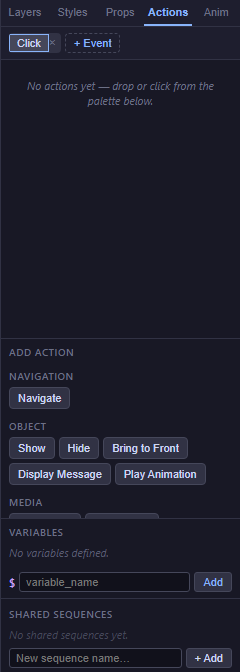
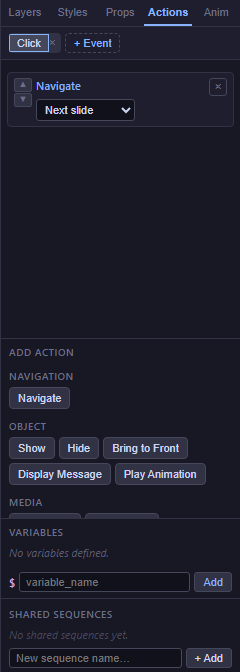
test(docs-screenshots): pass 2 — deterministic crops for §09+§10
Pass 2/5 of the User Manual v2 screenshot spec refactor (Category B:
capture element instead of fullpage; seed state then crop).

Scope: 6 placeholders moved from fullpage safety net to clean crops.

- 09-actions-tab           — already element, no change (sanity check)
- 10-event-selector        — menu open, close via toggle to avoid
                             occluding subsequent captures
- 10-action-palette        — full palette with all 15 actions across 7
                             categories visible
- 10-action-navigate       — close-up of a single Navigate row
- 10-action-setvariable    — close-up of a single Set Variable row
- 10-action-ifelse         — If/Else row with nested Show (Then) + Hide
                             (Else) branches and their palettes

Component changes (testids + attrs, no behaviour change):
- ActionPalette.tsx          data-testid="action-palette" on container
- ActionsPanel.tsx           data-testid="action-palette-area" on the
                             flex-child wrapper (lets the screenshot
                             stylesheet override flex-shrink on the exact
                             ancestor without disturbing the panel's
                             runtime layout)
- ActionSequenceEditor.tsx   data-action-type={action.type} on each row
                             so rows can be addressed individually
                             ("navigate", "set-variable", "condition"…)

Spec changes (docs-screenshots.spec.ts):
[…]

Changed region(s): [[0.0292, 0.0938, 0.9333, 0.1875], [0.9625, 0.125, 0.9917, 0.1875], [0.9333, 0.0938, 0.9625, 0.125]]

diff --git a/e2e/tests/docs-screenshots.spec.ts b/e2e/tests/docs-screenshots.spec.ts
@@ -400,75 +400,212 @@ test('Manual v2 screenshot campaign', async ({ editorPage, page }) => {
     await captureFullPage(page, '09-widget-name-field.png')
   })
 
-  // Open the Actions tab; add trigger click + Navigate → Next slide.
+  // Open the Actions tab and seed a Click event so the palette renders.
   await editorPage.actionsTab.click()
-  // Best-effort wiring: EventSelector + ActionItemEditor controls vary by
-  // build. If any click misses, the downstream captureFullPage() still
-  // produces a usable snapshot.
-  try {
-    await page.getByRole('button', { name: /\+ *Event/i }).click({ timeout: 5000 })
-    await page.getByRole('menuitem', { name: /^Click$/i }).click({ timeout: 5000 })
-    await page.getByRole('button', { name: /Add action/i }).click({ timeout: 5000 })
-    await page.getByRole('button', { name: /Navigate$/i }).click({ timeout: 5000 }).catch(() => undefined)
-  } catch {
-    /* best effort — spec continues */
+
+  // Open "+ Event" → Click. Guard around the menu click because availableEvents
+  // is empty once the event is already added (second run on the same widget).
+  async function ensureClickEvent(): Promise<void> {
+    const eventList = page.getByRole('tab', { name: /^Click$/i })
+    if (await eventList.count() > 0) return
+    try {
+      await page.getByRole('button', { name: /\+ *Event/i }).click({ timeout: 5000 })
+      await page.getByRole('menuitem', { name: /^Click$/i }).click({ timeout: 5000 })
+    } catch {
+      /* best effort — palette visibility check is what matters */
+    }
+  }
+  await ensureClickEvent()
+
+  // 09-actions-tab.png — right sidebar with the Actions tab active. A first
+  // action row helps the shot look populated; the palette ships visible.
+  // Insert Navigate once via click on the palette's Navigate button.
+  async function insertActionFromPalette(label: RegExp): Promise<void> {
+    const palette = page.locator('[data-testid="action-palette"]')
+    await palette.waitFor({ state: 'visible', timeout: 5000 })
+    await palette.getByRole('button', { name: label }).first().click({ timeout: 4000 })
   }
 
+  try {
+    await insertActionFromPalette(/^Navigate$/)
+  } catch {
+    /* best effort — downstream captureFullPage still emits something */
+  }
   await safeCaptureRightPanel('09-actions-tab.png')
 
-  // 09-widget-dropdown-names — a Show-action row with the <select> open.
-  // Native <select> popups close on screenshot in Chromium, so we try to
-  // add a Show action and then emit a full-page safety net the author can
-  // crop by hand to show the target-widget dropdown filled with names.
+  // 09-widget-dropdown-names — a widget-target <select> open with named widgets.
+  // The native dropdown closes on screenshot so the clean crop needs the same
+  // size-expand trick we used for 14-builder-types. Requires a Show action.
   try {
-    await page
-      .getByRole('button', { name: /Add action/i })
-      .click({ timeout: 4000 })
-    await page
-      .getByRole('button', { name: /^Show$/i })
-      .click({ timeout: 4000 })
-      .catch(() => undefined)
+    await insertActionFromPalette(/^Show$/)
+    const widgetSelect = page
+      .locator('[data-action-type="show"] select')
+      .first()
+    await widgetSelect.waitFor({ state: 'visible', timeout: 4000 })
+    await widgetSelect.evaluate((el: HTMLSelectElement) => {
+      el.dataset['originalSize'] = String(el.size)
+      el.size = Math.max(el.options.length, 2)
+    })
+    await captureElement(page, '[data-action-type="show"] select', {
+      filename: '09-widget-dropdown-names.png',
+      padding: 20,
+    })
+    await widgetSelect.evaluate((el: HTMLSelectElement) => {
+      el.size = Number.parseInt(el.dataset['originalSize'] ?? '0', 10) || 1
+      delete el.dataset['originalSize']
+    })
   } catch {
-    /* best effort */
+    await captureFullPage(page, '09-widget-dropdown-names.png')
   }
-  await captureFullPage(page, '09-widget-dropdown-names.png')
 
   // -------------------------------------------------------------------------
   // §10 — Triggers & Actions Reference
   // -------------------------------------------------------------------------
 
-  // 10-event-selector.png — Actions tab with "+ Event" menu open.
+  // 10-event-selector.png — Actions tab with "+ Event" menu open. After
+  // capturing, toggle the menu OFF by re-clicking the "+ Event" button so
+  // downstream action-row captures are not occluded by the overlay.
+  const addEventButton = page.getByRole('button', { name: /\+ *Event/i })
   try {
-    await page.getByRole('button', { name: /\+ *Event/i }).click({ timeout: 5000 })
+    await addEventButton.click({ timeout: 5000 })
     await captureElement(page, '[role="menu"]', {
       filename: '10-event-selector.png',
       padding: 10,
     })
-    await page.keyboard.press('Escape')
   } catch {
-    // Emit a safety-net so the author can reproduce the menu and crop by hand.
     await captureFullPage(page, '10-event-selector.png')
+  } finally {
+    // Guarantee the menu is closed — try the toggle first, then a safety
+    // click on the sidebar background.
+    if (await page.locator('[role="menu"]').count() > 0) {
+      await addEventButton.click({ timeout: 1500 }).catch(() => undefined)
+    }
+    if (await page.locator('[role="menu"]').count() > 0) {
+      await page.locator(RIGHT_SIDEBAR).click({
+        position: { x: 10, y: 10 },
+        timeout: 1500,
+      }).catch(() => undefined)
+    }
   }
 
-  // 10-action-palette.png — action picker expanded. Open it and take a
-  // full-page safety net; the picker scrolls, so a manual crop from the
-  // snapshot is more reliable than chasing a bounding box.
+  // 10-action-palette.png — the full palette with all 15 actions grouped.
+  // Three constraints compound: overflow:auto on the container, flex-shrink
+  // from the ActionsPanel flex column, AND viewport height capping the
+  // visible area. Neutralise all three for the capture window: CSS lifts
+  // the first two, a temporary viewport resize lifts the third. Every
+  // tall-element capture in this block (palette + the 3 rows) reuses the
+  // taller viewport, reverting at the end.
+  const originalViewport = page.viewportSize()!
+  await page.setViewportSize({ width: originalViewport.width, height: 3000 })
+
+  const paletteStyle = await page.addStyleTag({
+    content: `[data-testid="action-palette"],
+    [data-testid="action-palette-area"] {
+      overflow: visible !important;
+      max-height: none !important;
+      height: auto !important;
+      flex: 0 0 auto !important;
+    }
+    [data-testid="actions-panel"],
+    aside[aria-label="Properties"] {
+      overflow: visible !important;
+      max-height: none !important;
+    }`,
+  })
   try {
-    await page
-      .getByRole('button', { name: /Add action/i })
-      .click({ timeout: 4000 })
+    const palette = page.locator('[data-testid="action-palette"]').first()
+    await palette.waitFor({ state: 'visible', timeout: 5000 })
+    await palette.scrollIntoViewIfNeeded()
+    const box = await palette.boundingBox()
+    if (!box) throw new Error('no bbox for action-palette')
+    const p = 12
+    await page.screenshot({
+      path: SCREENSHOTS_DIR + '/10-action-palette.png',
+      type: 'png',
+      fullPage: true,
+      clip: {
+        x: Math.max(0, Math.round(box.x - p)),
+        y: Math.max(0, Math.round(box.y - p)),
+        width: Math.round(box.width + 2 * p),
+        height: Math.round(box.height + 2 * p),
+      },
+    })
+    // eslint-disable-next-line no-console
+    console.log('[docs-screenshots] wrote 10-action-palette.png (element)')
   } catch {
-    /* best effort */
+    await captureFullPage(page, '10-action-palette.png')
+  } finally {
+    await paletteStyle.evaluate((el: Node) => {
+      if (el instanceof Element) el.remove()
+    })
   }
-  await captureFullPage(page, '10-action-palette.png')
 
-  // 10-action-navigate / setvariable / ifelse — a Navigate row was already
-  // inserted under §09. Emit a single full-page snapshot that contains the
-  // Actions tab in its current state; the manual crop derives all three
-  // close-ups from one reproducible shot.
-  await captureFullPage(page, '10-action-navigate.png')
-  await captureFullPage(page, '10-action-setvariable.png')
-  await captureFullPage(page, '10-action-ifelse.png')
+  // 10-action-navigate / setvariable / ifelse — insert each action (if not
+  // already present) and capture the specific row by its data-action-type.
+  async function ensureRow(label: RegExp, type: string): Promise<void> {
+    const row = page.locator(`[data-action-type="${type}"]`)
+    if (await row.count() > 0) return
+    await insertActionFromPalette(label)
+    await row.first().waitFor({ state: 'visible', timeout: 4000 })
+  }
+
+  async function captureRow(filename: string, type: string): Promise<void> {
+    // An action row can exceed viewport height (the `condition` row hosts
+    // two nested ActionPalettes). Plain loc.screenshot() captures only what
+    // fits in the viewport AND Playwright scrolls the sidebar before the
+    // capture, so the clip ends up on the wrong region.
+    // Workaround: read the bbox AFTER scrollIntoView, then screenshot the
+    // full page with an explicit clip — Playwright renders the document at
+    // its natural height so any clip beyond the viewport is honoured.
+    const selector = `[data-action-type="${type}"]`
+    try {
+      const loc = page.locator(selector).first()
+      await loc.waitFor({ state: 'visible', timeout: 4000 })
+      await loc.scrollIntoViewIfNeeded()
+      const box = await loc.boundingBox()
+      if (!box) throw new Error(`captureRow(${filename}): no bbox`)
+      await page.screenshot({
+        path: SCREENSHOTS_DIR + '/' + filename,
+        type: 'png',
+        fullPage: true,
+        clip: box,
+      })
+      // eslint-disable-next-line no-console
+      console.log(`[docs-screenshots] wrote ${filename} (element)`)
+    } catch {
+      await captureFullPage(page, filename)
+    }
+  }
+
+  try {
+    await ensureRow(/^Navigate$/, 'navigate')
+    await captureRow('10-action-navigate.png', 'navigate')
+
+    await ensureRow(/^Set Variable$/, 'set-variable')
+    await captureRow('10-action-setvariable.png', 'set-variable')
+
+    await ensureRow(/^If \/ Else$/, 'condition')
+
+    // Seed one nested action per branch so the shot shows structure, not
+    // two empty palettes. The condition row embeds two ActionPalette
+    // instances (Then first, Else second) — insert Show into each.
+    const conditionRow = page.locator('[data-action-type="condition"]').first()
+    const nestedPalettes = conditionRow.locator('[data-testid="action-palette"]')
+    // The first nested palette is Then; after insertion the second becomes
+    // Else's (Then palette repositions below its new child but the order
+    // of the nested palettes within the condition row is preserved).
+    await nestedPalettes.nth(0).getByRole('button', { name: /^Show$/ })
+      .click({ timeout: 4000 }).catch(() => undefined)
+    await nestedPalettes.nth(1).getByRole('button', { name: /^Hide$/ })
+      .click({ timeout: 4000 }).catch(() => undefined)
+
+    await captureRow('10-action-ifelse.png', 'condition')
+  } catch {
+    // Fall through: each captureRow has its own per-file fallback.
+  } finally {
+    // Restore viewport for subsequent captures (§11+ assume 720 height).
+    await page.setViewportSize(originalViewport)
+  }
 
   // -------------------------------------------------------------------------
   // §11 — Expressions, Recipes & Shared Sequences

diff --git a/packages/authoring-ui/src/components/actions/ActionsPanel.tsx b/packages/authoring-ui/src/components/actions/ActionsPanel.tsx
@@ -63,7 +63,7 @@ export function ActionsPanel() {
 
       {/* Action palette — only shown when an event is selected */}
       {selectedEvent && (
-        <div style={styles.paletteArea}>
+        <div style={styles.paletteArea} data-testid="action-palette-area">
           <div style={styles.paletteHeader}>Add Action</div>
           <ActionPalette />
         </div>

diff --git a/packages/authoring-ui/src/components/actions/ActionPalette.tsx b/packages/authoring-ui/src/components/actions/ActionPalette.tsx
@@ -38,7 +38,7 @@ export function ActionPalette({ allowedCategories, onInsert }: ActionPaletteProp
   }
 
   return (
-    <div style={styles.container}>
+    <div style={styles.container} data-testid="action-palette">
       {categories.map((cat) => (
         <div key={cat} style={styles.category}>
           <div style={styles.categoryLabel}>{cat}</div>

diff --git a/packages/authoring-ui/src/components/actions/ActionSequenceEditor.tsx b/packages/authoring-ui/src/components/actions/ActionSequenceEditor.tsx
@@ -150,7 +150,7 @@ function ActionRow({
   onChange,
 }: ActionRowProps) {
   return (
-    <div style={styles.row} data-testid="action-item">
+    <div style={styles.row} data-testid="action-item" data-action-type={action.type}>
       {/* Reorder controls */}
       <div style={styles.orderBtns}>
         <button
